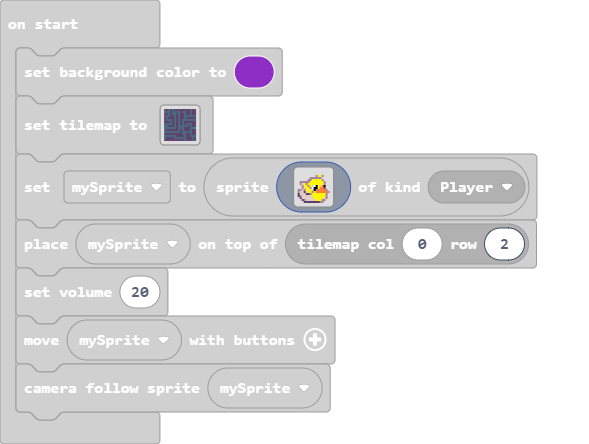
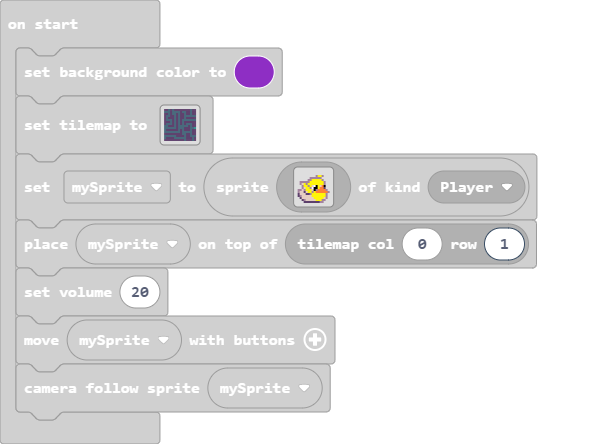
Update main.blocks, main.ts

Changed region(s): [[0.4584, 0.3514, 0.6112, 0.4977]]

diff --git a/main.ts b/main.ts
@@ -21,7 +21,7 @@ let mySprite = sprites.create(img`
     . . c b d d d d d 5 5 5 b b . . 
     . . . c c c c c c c c b b . . . 
     `, SpriteKind.Player)
-tiles.placeOnTile(mySprite, tiles.getTileLocation(0, 2))
+tiles.placeOnTile(mySprite, tiles.getTileLocation(0, 1))
 music.setVolume(20)
 controller.moveSprite(mySprite)
 scene.cameraFollowSprite(mySprite)
